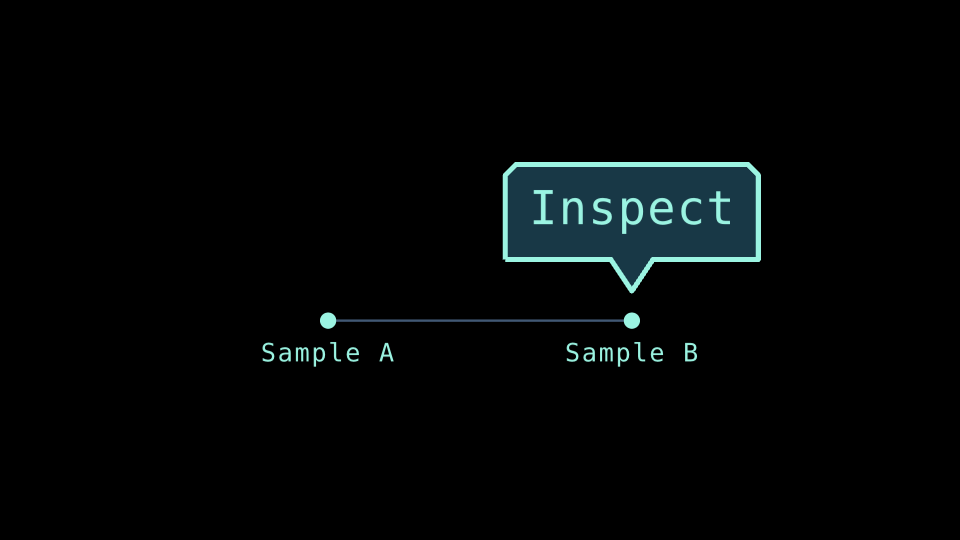
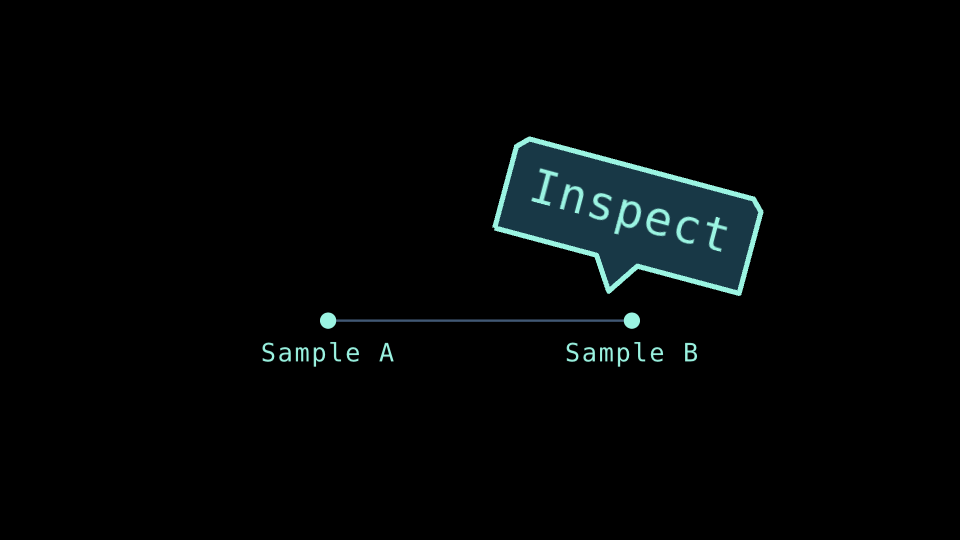
Record the tilted callout and qualify native rewind

Changed region(s): [[0.5, 0.237, 0.8125, 0.563]]

diff --git a/scripts/test_native_python.py b/scripts/test_native_python.py
@@ -493,9 +493,9 @@ class Outline(Scene):
         scene = asyncio.run(run_source(path.read_text(), filename=str(path), retain_history=True))
         callout = scene.mobjects[-1]
         self.assertEqual(callout.get_num_points(), 36)
-        points = callout.get_all_points()
-        dx, dy = points[3][0] - points[0][0], points[3][1] - points[0][1]
-        self.assertAlmostEqual(atan2(dy, dx), pi / 2 - pi / 12, places=5)
+        start = callout.get_start()
+        edge = callout.point_from_proportion(0.05)
+        self.assertAlmostEqual(atan2(edge[1] - start[1], edge[0] - start[0]), pi / 2 - pi / 12, places=5)
         view = prepare_view(scene)
         try:
             times = (0.25, 1.0, 1.75, 2.75, view.duration)
